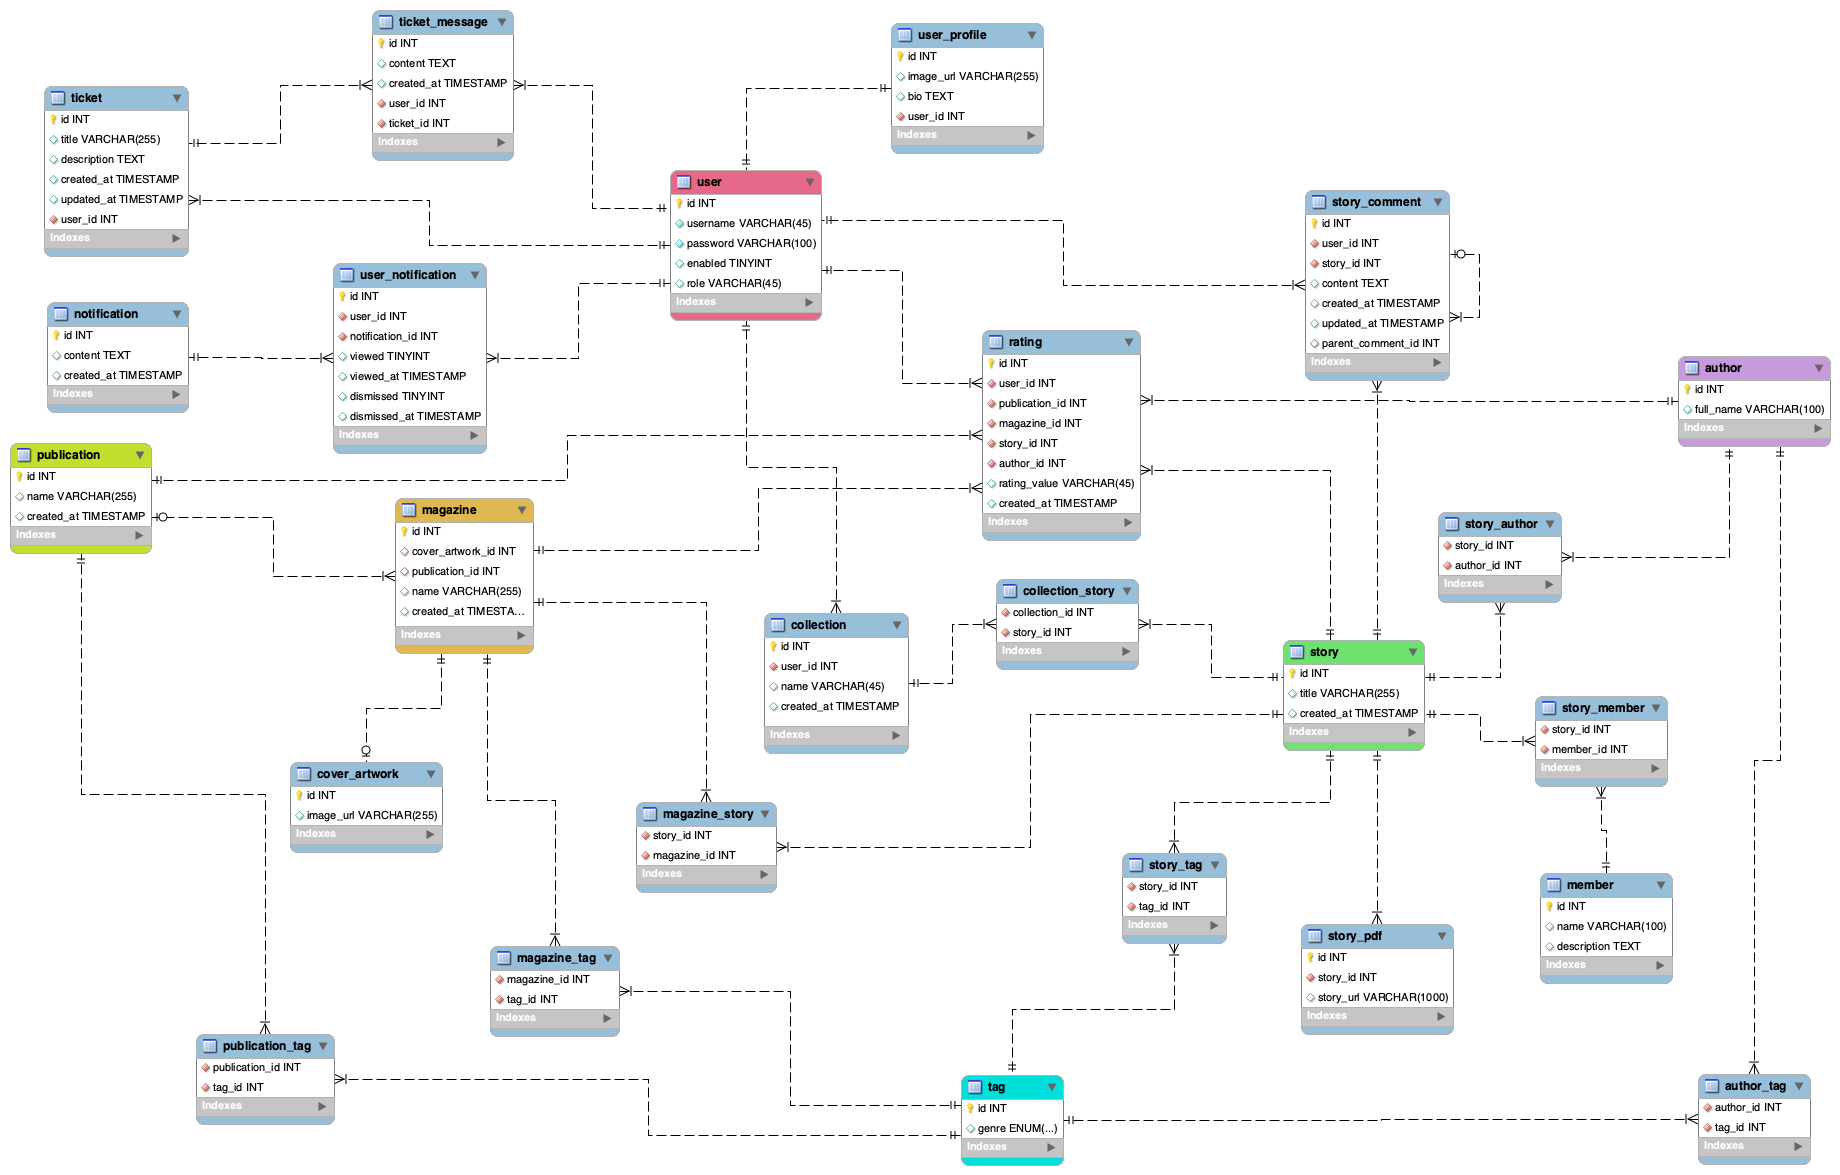
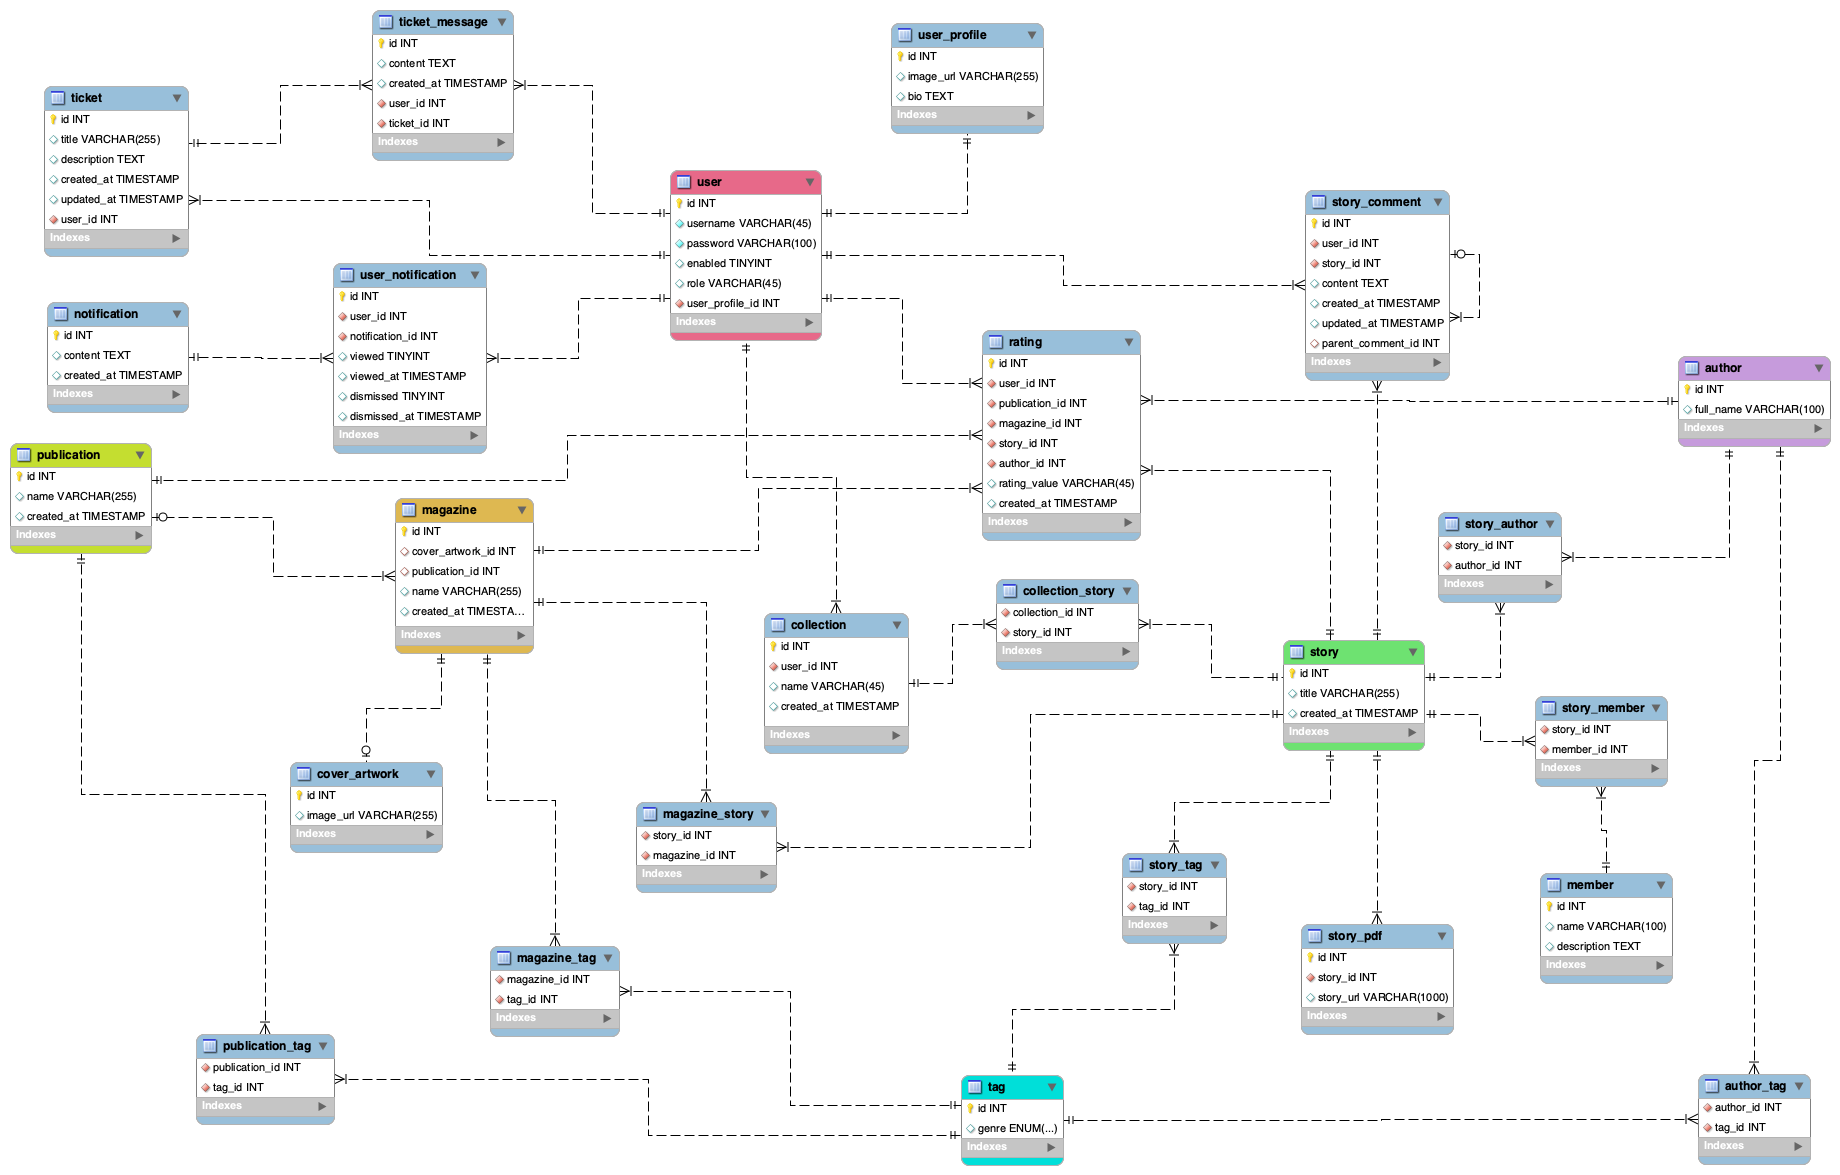
Move foreign key from user profile to user table in database. Database changes reflected in corresponding jpa project entities

Changed region(s): [[0.3408, 0.2451, 0.4647, 0.3064], [0.4647, 0.0919, 0.5886, 0.1532]]

diff --git a/JPAThePulps/src/main/java/com/skilldistillery/thepulps/entities/User.java b/JPAThePulps/src/main/java/com/skilldistillery/thepulps/entities/User.java
@@ -3,11 +3,14 @@ package com.skilldistillery.thepulps.entities;
 import java.util.List;
 import java.util.Objects;
 
+import javax.persistence.CascadeType;
 import javax.persistence.Entity;
 import javax.persistence.GeneratedValue;
 import javax.persistence.GenerationType;
 import javax.persistence.Id;
+import javax.persistence.JoinColumn;
 import javax.persistence.OneToMany;
+import javax.persistence.OneToOne;
 
 @Entity
 public class User {
@@ -29,6 +32,10 @@ public class User {
 	
 	@OneToMany(mappedBy = "user")
 	private List<StoryComment> storyComments;
+	
+	@OneToOne(cascade = CascadeType.ALL)
+	@JoinColumn(name = "user_profile_id")
+	private UserProfile userProfile;
 
 	public User() {
 		super();

diff --git a/JPAThePulps/src/main/java/com/skilldistillery/thepulps/entities/UserProfile.java b/JPAThePulps/src/main/java/com/skilldistillery/thepulps/entities/UserProfile.java
@@ -1,9 +1,11 @@
 package com.skilldistillery.thepulps.entities;
 
+import javax.persistence.Column;
 import javax.persistence.Entity;
 import javax.persistence.GeneratedValue;
 import javax.persistence.GenerationType;
 import javax.persistence.Id;
+import javax.persistence.OneToOne;
 import javax.persistence.Table;
 
 @Entity
@@ -13,5 +15,13 @@ public class UserProfile {
 	@Id
 	@GeneratedValue(strategy = GenerationType.IDENTITY)
 	private int id;
+	
+	@Column(name = "image_url")
+	private String imageUrl;
+	
+	private String bio;
+	
+	@OneToOne(mappedBy = "userProfile")
+	private User user;
 
 }
